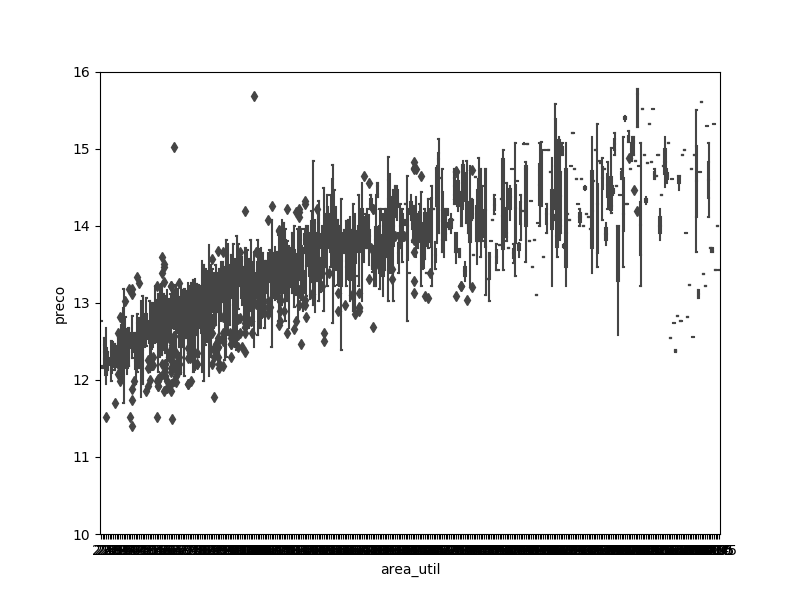
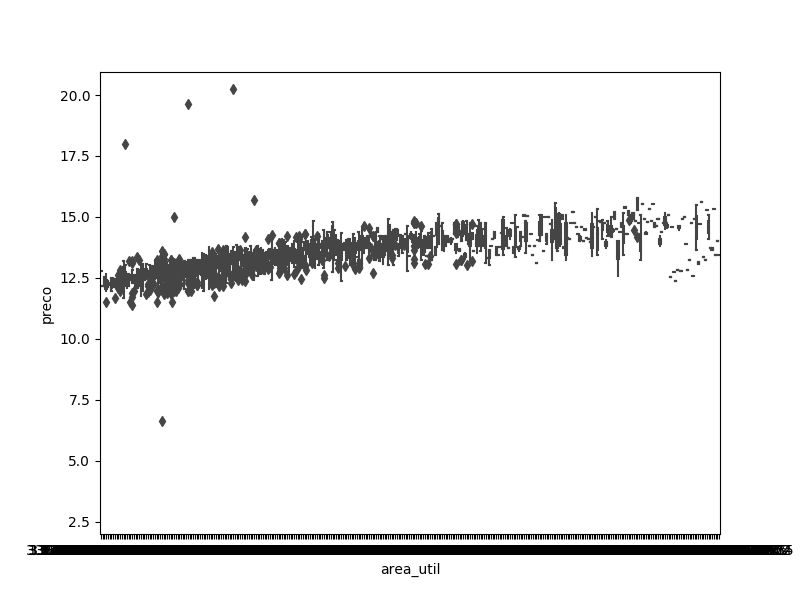
entrega

diff --git a/Trabalho 1/main.py b/Trabalho 1/main.py
@@ -14,28 +14,30 @@ import xgboost as xgb
 
 #Carregando dados de treino
 dt = pd.read_csv("Data/train.csv")
+dt.describe().to_csv("desc.csv")
+
 dtest = pd.read_csv("Data/test.csv")
 
+
+############PRÉ-PROCESSAMENTO##################################################
 #Categorizando variáveis nominais
 dt["bairro"] = ut.categorizar(dt["bairro"], "bairro", pd)
+
 dt["tipo_vendedor"] = ut.categorizar(dt["tipo_vendedor"], "tipo_vendedor", pd)
 dt["tipo"] = ut.categorizar(dt["tipo"], "tipo", pd)
 dt['preco'] = dt['preco'].apply(np.log)
 dt['area_util'] = dt['area_util'].apply(np.log)
 #dt['bairro'] = dt['bairro'].apply(np.log)
-
+#,8,9
 
 dt = dt.drop(dt.columns[[0,8,9]], axis=1)
-
 ut.corr_matrix(dt)
-
-
-
 
 dtest["bairro"] = ut.categorizar(dtest["bairro"], "bairro", pd)
 dtest["tipo_vendedor"] = ut.categorizar(dtest["tipo_vendedor"], "tipo_vendedor", pd)
 dtest["tipo"] = ut.categorizar(dtest["tipo"], "tipo", pd)
 dtest['area_util'] = dtest['area_util'].apply(np.log)
+
 #dtest['bairro'] = dtest['bairro'].apply(np.log)
 
 
@@ -44,12 +46,18 @@ dtest = dtest.drop(dtest.columns[[0,8,9]], axis=1)
 
 dt = dt.drop(dt[(dt['preco'] > 17.5)].index)
 dt = dt.drop(dt[(dt['preco'] < 7.5)].index)
-ut.corr_matrix(dt)
+# ut.corr_matrix(dt)
 # ut.histogram(dt)
 # ut.boxplot(dt)
+print dt.describe()
+############FIM DO PRÉ-PROCESSAMENTO###########################################
+
+
+##############INICÍO DA ANÁLISE DE DADOS#######################################
 
 X = dt.iloc[:, :-1].values
 Y = dt.iloc[:, -1].values
+
 
 Xtest = dtest.iloc[:, :].values
 
@@ -57,8 +65,8 @@ regressor = LinearRegression(n_jobs=4, fit_intercept=True)
 
 regressor.fit(X, Y)
 
-# ytrain_pred = regressor.predict(X)
-# ytest_pred = regressor.predict(Xtest)
+ytrain_pred = regressor.predict(X)
+ytest_pred = regressor.predict(Xtest)
 
 # Define error measure for official scoring : RMSE
 scorer = make_scorer(mean_squared_error, greater_is_better = False)
@@ -67,19 +75,13 @@ def rmse_cv_train(model):
     rmse= np.sqrt(-cross_val_score(model, X, Y, scoring = scorer, cv = 10))
     return(rmse)
 
-# print('\nDesempenho no conjunto de treinamento:')
-# print('MSE  = %.5f' %           mean_squared_error(Y, ytrain_pred) )
-# print('RMSE = %.5f' % math.sqrt(mean_squared_error(Y, ytrain_pred)))
-# print('R2   = %.5f' %                     r2_score(Y, ytrain_pred) )
-# print "RMSE on Training set :", rmse_cv_train(regressor).mean()
+print('\nDesempenho no conjunto de treinamento:')
+print('MSE  = %.5f' %           mean_squared_error(Y, ytrain_pred) )
+print('RMSE = %.5f' % math.sqrt(mean_squared_error(Y, ytrain_pred)))
+print('R2   = %.5f' %                     r2_score(Y, ytrain_pred) )
+print "RMSE on Training set :", rmse_cv_train(regressor).mean()
 
 
-
-
-
-
-
-#0.5213
 xgboost = xgb.XGBRegressor(colsample_bytree=0.6, gamma=0.0468, learning_rate=0.04, max_depth=3, min_child_weight=1.7817, n_estimators=2200,reg_alpha=0.9, reg_lambda=0.8571,subsample=0.5213, silent=1,random_state =5, n_jobs=5)
 xgboost.fit(X, Y)
 

diff --git a/Trabalho 1/Util.py b/Trabalho 1/Util.py
@@ -8,17 +8,19 @@ import numpy as np
 tipo = {"Casa": 4, "Apartamento": 3, "Loft": 2, "Quitinete": 1}
 tipo_vendedor = {"Imobiliaria": 1, "Pessoa Fisica": 2}
 bairro = {}
+desc = {}
 
 mapeamento = {
     "tipo": tipo,
     "tipo_vendedor": tipo_vendedor,
-    "bairro": {}
+    "bairro": {},
+    "desc": {}
 }
 
 
 def categorizar(col, dict, pd):
     colCoded = pd.Series(col, copy=True)
-    if dict == 'bairro':
+    if dict == 'bairro' or dict == "desc":
         generateMap(col, dict)
     for key, value in mapeamento[dict].items():
         colCoded.replace(key, value, inplace=True)
@@ -99,7 +101,7 @@ def boxplot(dt):
             data = pd.concat([dt['preco'], dt[col]], axis=1)
             f, ax = plt.subplots(figsize=(8, 6))
             fig = sns.boxplot(x=col, y="preco", data=data)
-            fig.axis(ymin=10)
+            fig.axis(ymin=2)
             plt.savefig('Boxplot/BoxPlot_'+col+'.png')
             plt.cla()
             plt.clf()
